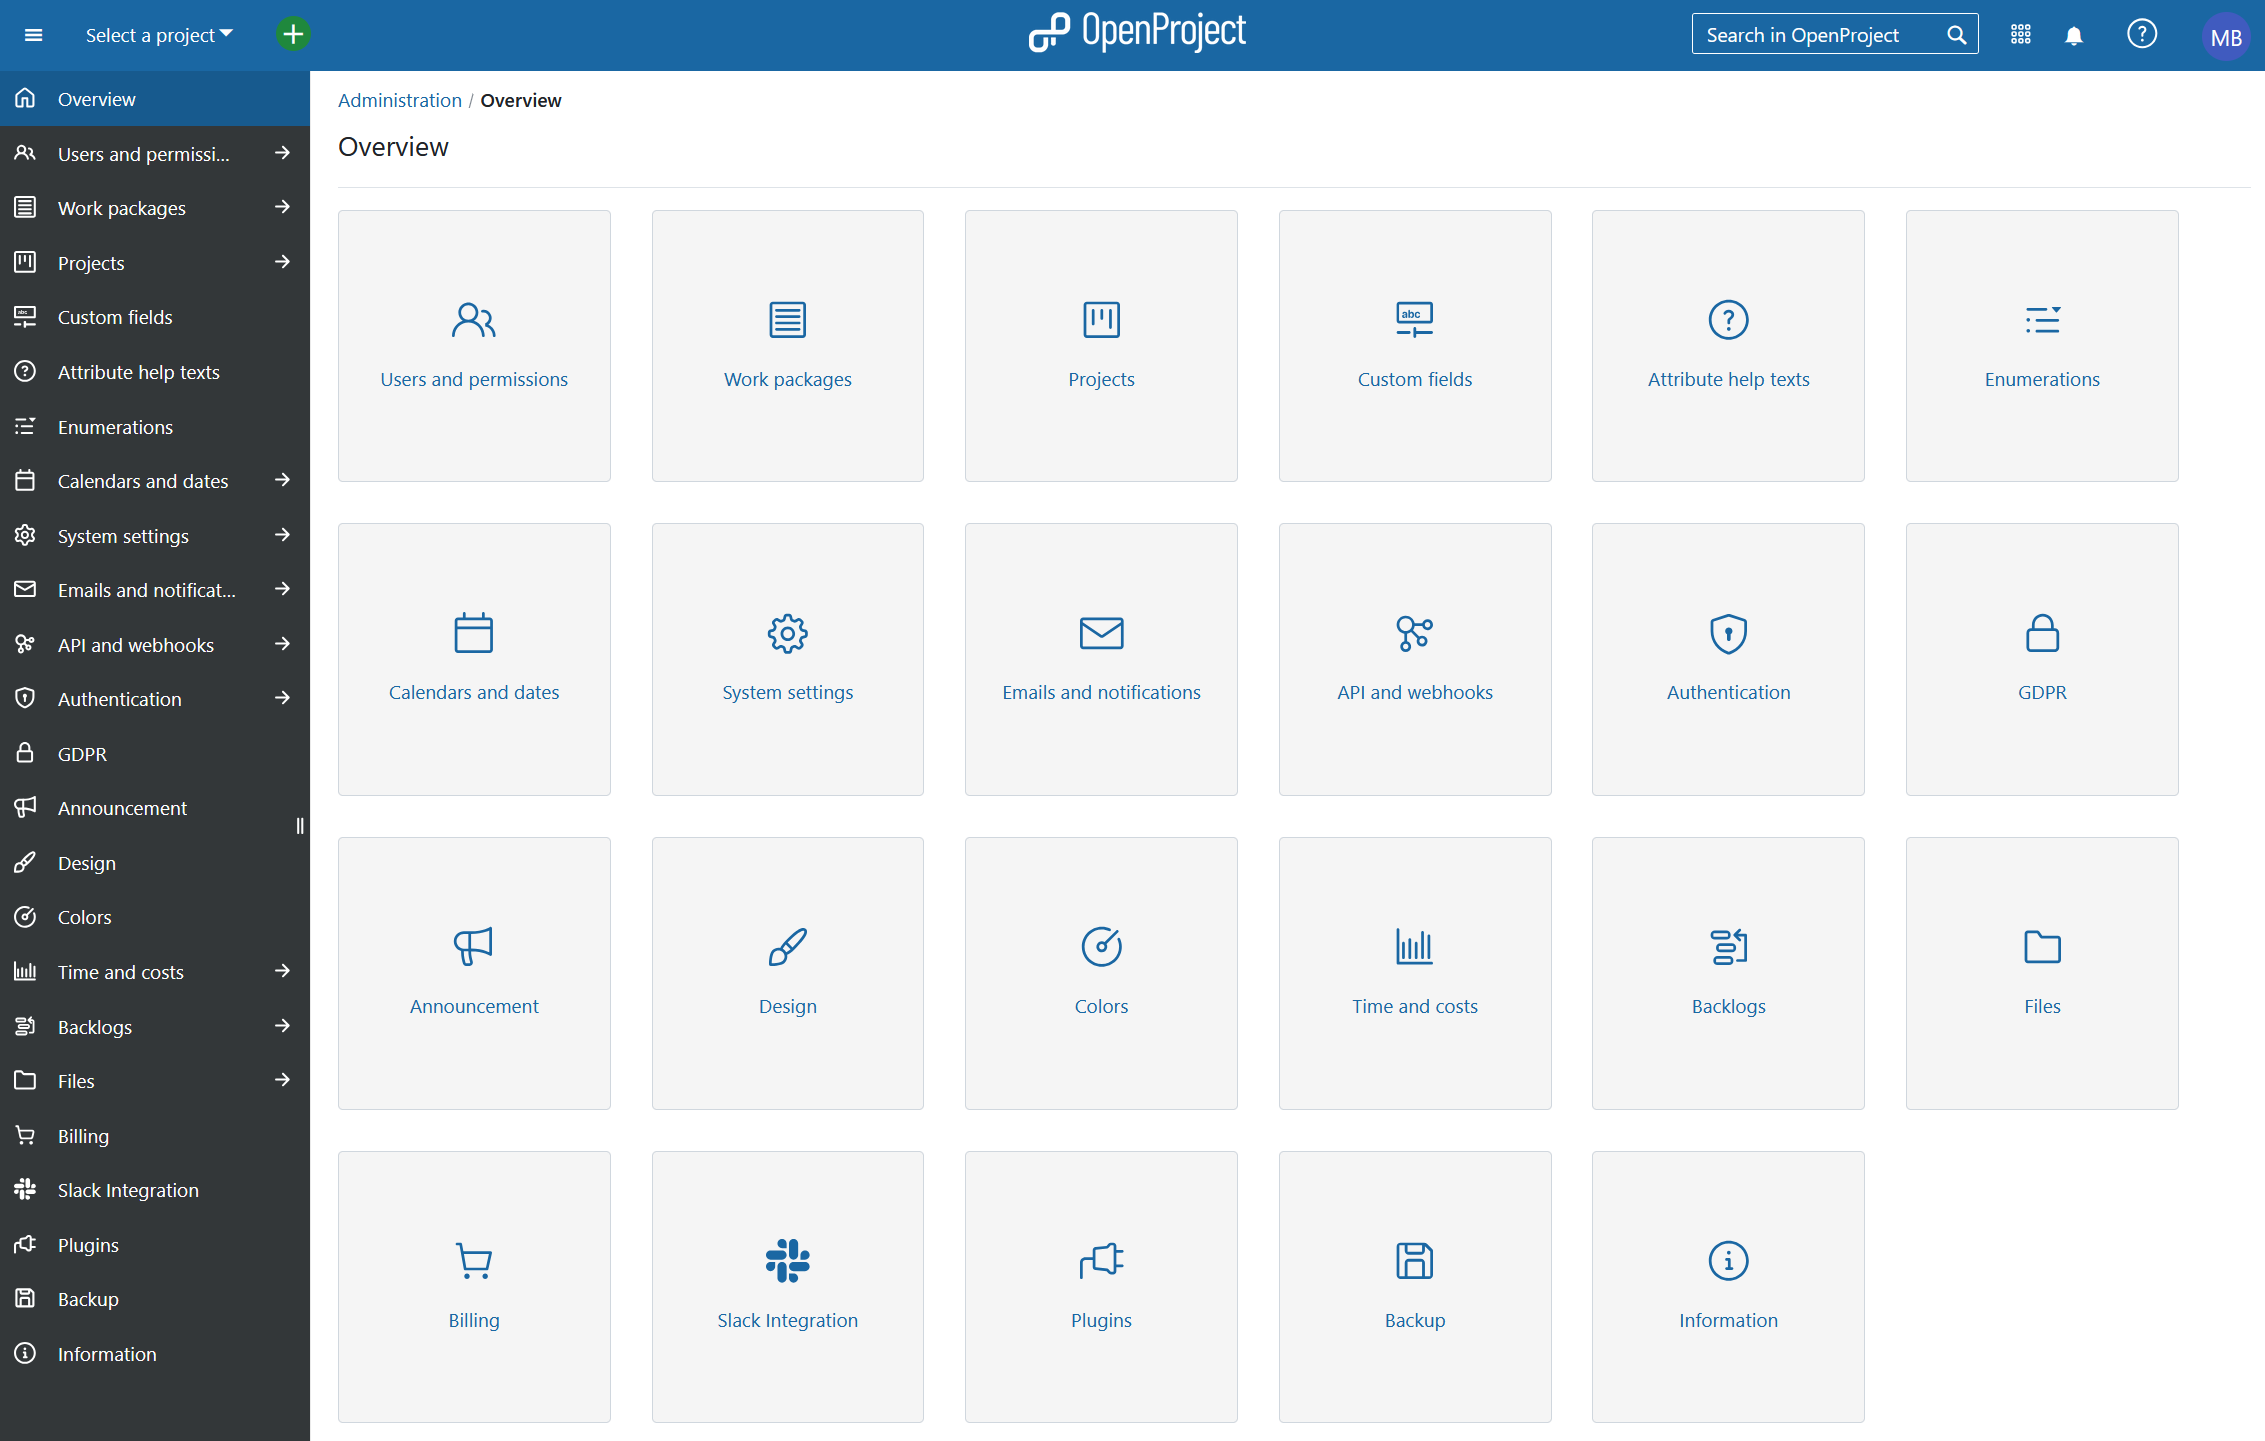
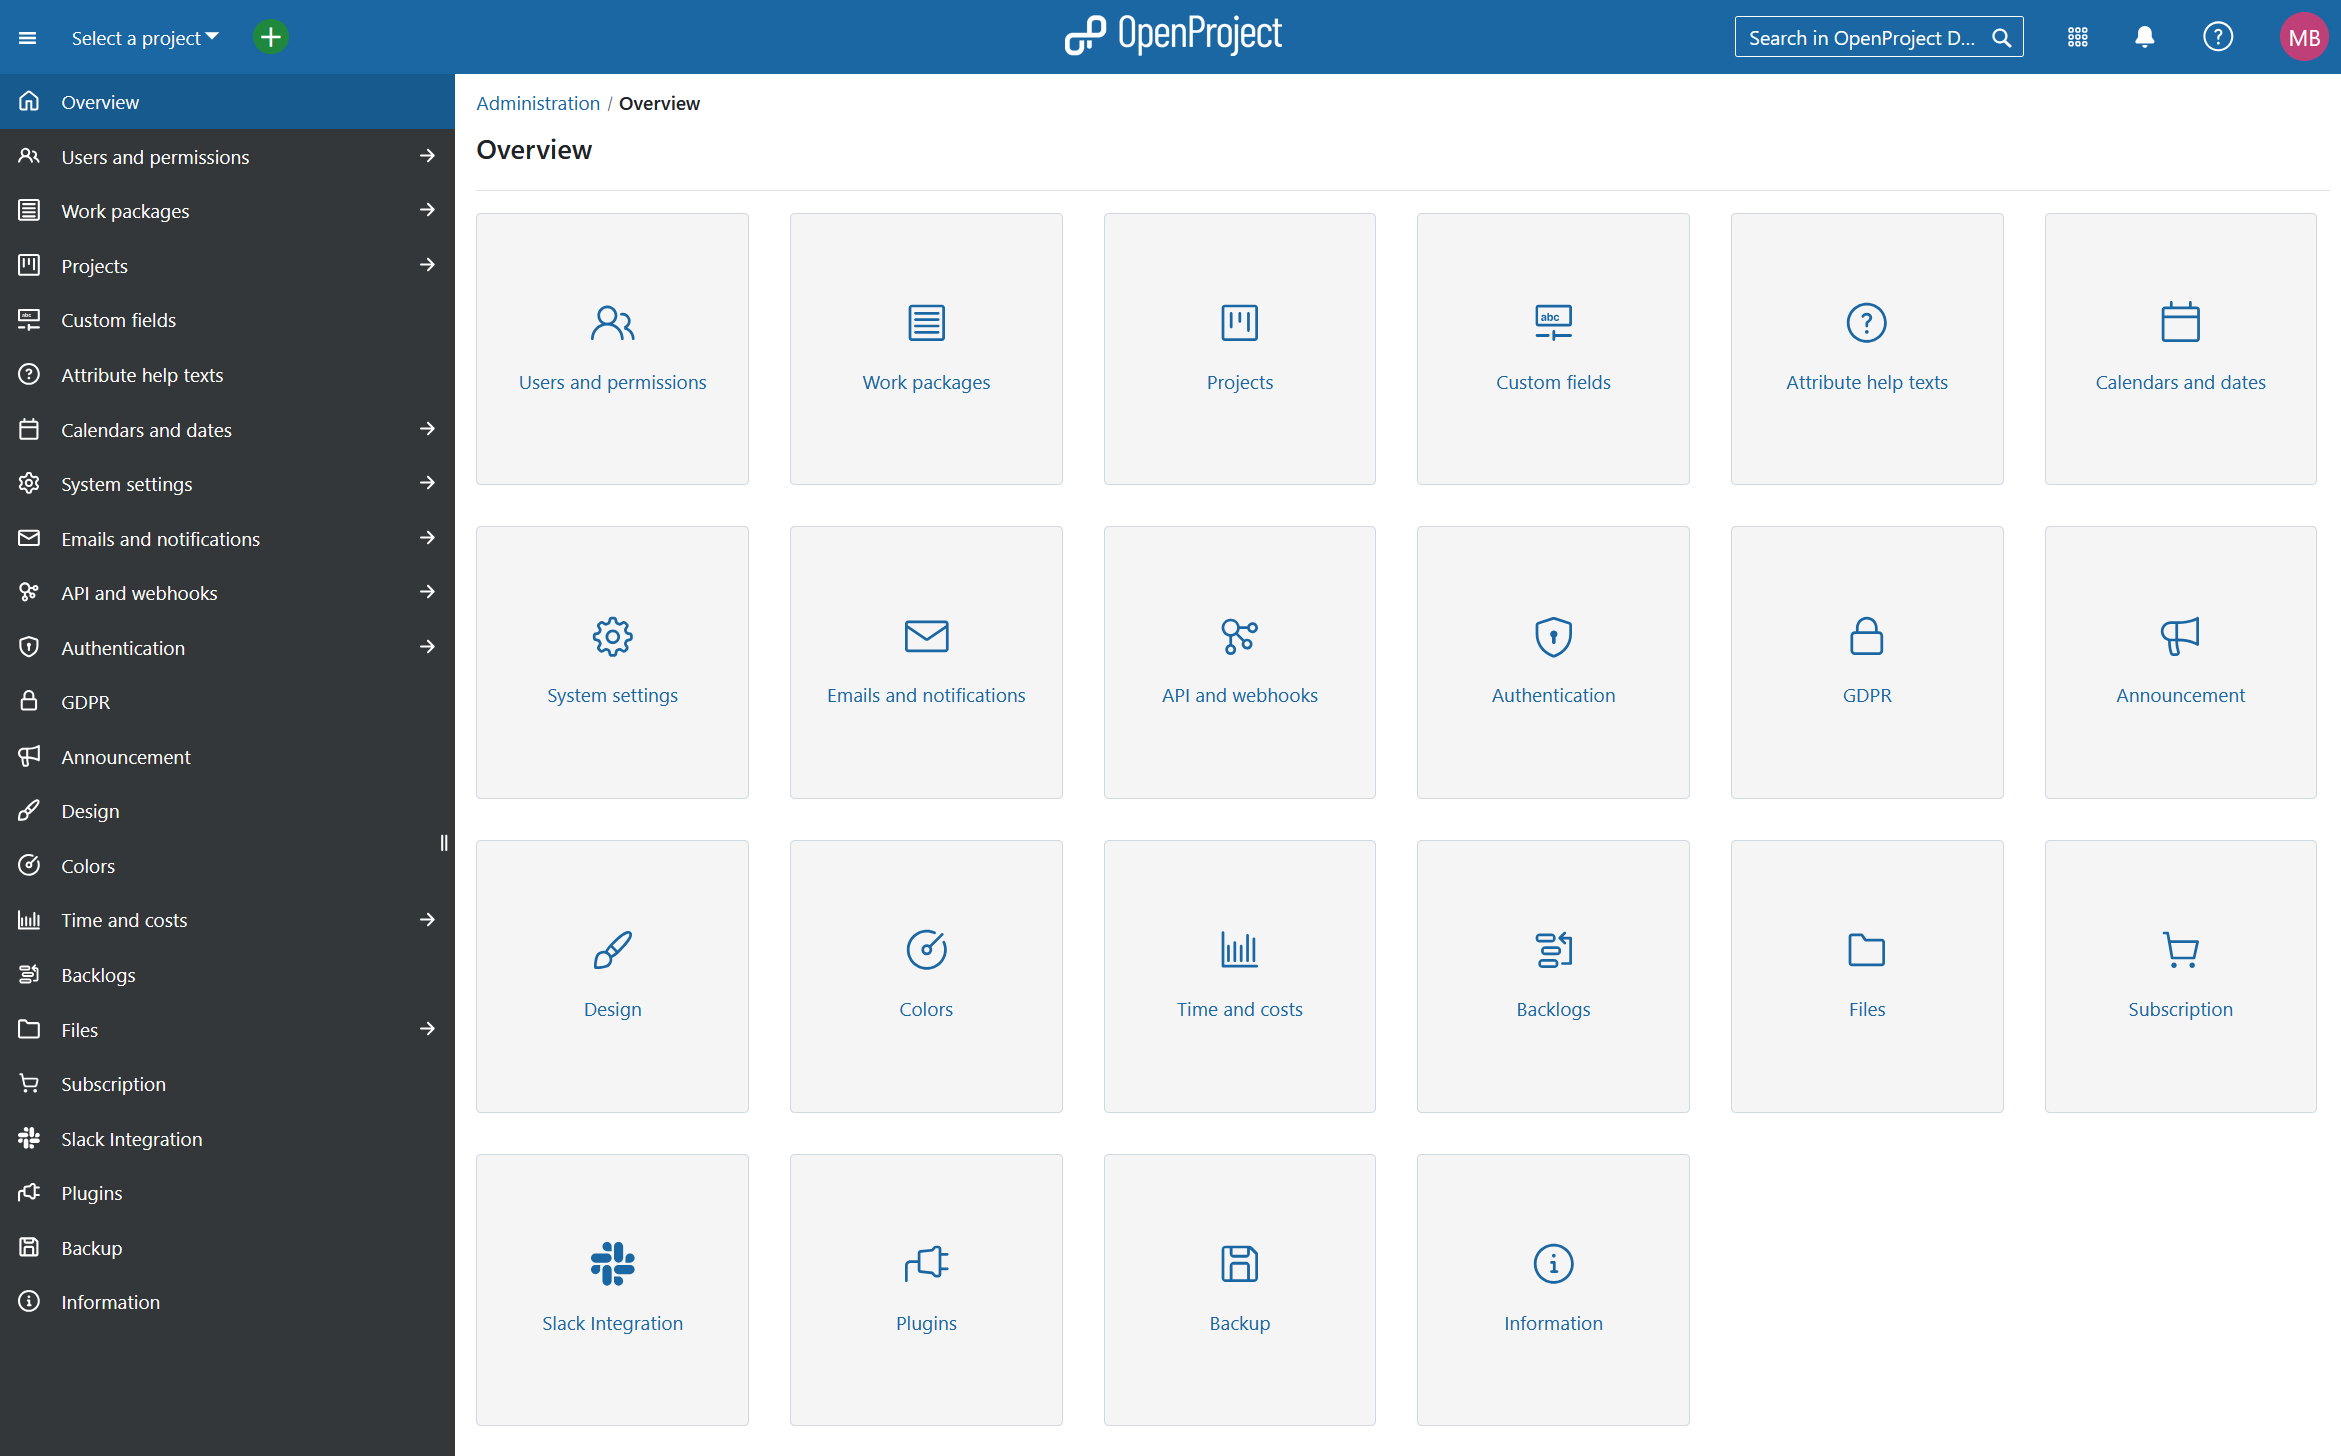
[#62011] Restructure the administration and remove the enumerations page  https://community.openproject.org/work_packages/62011
[#62011] Restructure the administration and remove the enumerations page

https://community.openproject.org/work_packages/62011

diff --git a/docs/system-admin-guide/time-and-costs/README.md b/docs/system-admin-guide/time-and-costs/README.md
@@ -7,19 +7,17 @@ keywords: cost type, currency, time and costs, budget
 ---
 # Time and costs
 
-You can configure costs in OpenProject and create cost types to track unit costs. Also, you can configure the currency you want to use for your cost reports.
+Navigate to *Administration* -> *Time and costs*. Here you can configure costs in OpenProject and create cost types to track unit costs. Also, you can configure the currency you want to use for your cost reports.
 
-Navigate to *Administration* -> *Time and costs*.
+## Default time and cost settings
 
-## Settings
-
-Navigate to *Administration* -> *Time and costs* -> *Settings* to define settings for costs in OpenProject.
+Navigate to *Administration* -> *Time and costs* -> *Defaults* to define settings for costs in OpenProject.
 
 1. Configure the **currency used in the system, e.g. EUR**.
 2. **Specify the format of the currency**, if the number should be before or after the currency, e.g. 10 EUR, or $ 10.
 3. Press the **Apply** button to save your changes.
 
-![Time and costs settings in OpenProject administration](openproject_system_admin_guide_time_costs_settings.png)
+![Time and costs settings in OpenProject administration](openproject_system_admin_guide_time_costs_defaults.png)
 
 ## Create and manage cost types
 
@@ -57,3 +55,35 @@ In the overview list of all cost types you can define the following.
 
 > [!NOTE]
 > With cost types you can also book any kind of units to work packages, e.g. vacation days, leaves, travel days, etc.. Just choose 1 as a unit. This way, you could e.g. track vacation days against a vacation budget and evaluate the days in the [cost reporting](../../user-guide/time-and-costs/reporting/).
+
+## Create and manage time tracking actvities
+
+To get an overview of existing values for time tracking activities, navigate to *Administration -> Time and Costs -> Time tracking activities*. You can adjust the items within the list by using the options behind the **More (three dots)** menu on the right side. You can also re-arrange the order by using the drag-and-drop handle on the left. 
+
+![Overview of existing time tracking activities in OpenProject administration](openproject_system_admin_guide_time_costs_time_tracking_activities_overview.png)
+
+> [!NOTE]
+> To activate the [Activities for time tracking](../../user-guide/projects/project-settings/activities-time-tracking) in a certain project, navigate to *Project settings -> Time tracking activities*.
+
+### Create new time tracking activity
+
+To create a new enumeration value, select the **+ Add** button in the top right corner.
+
+You will then be able to name the value and activate it. Press the **Save** button to save your changes.
+
+![Create new time tracking activity in OpenProject](openproject_system_admin_guide_time_costs_time_tracking_activities_new.png)
+
+### Edit or remove time tracking activity
+
+To **edit** an existing configuration either click on the name of the activity directly or select the **Edit** option from the **More (three dots)** menu on the right end of the row.
+
+![Edit a time tracking activity in OpenProject adminstration](openproject_system_admin_guide_time_costs_time_tracking_activities_edit_icon.png)
+
+
+
+
+
+To remove an enumeration open the **More (three dots)** menu on the right end of the row and click on the **delete icon**.
+
+> [!NOTE]
+> To activate the [Activities for time tracking](../../user-guide/projects/project-settings/activities-time-tracking) in a certain project, navigate to *Project settings -> Time tracking activities*.

diff --git a/docs/system-admin-guide/README.md b/docs/system-admin-guide/README.md
@@ -11,7 +11,7 @@ Welcome to the OpenProject **System Administration guide**.
 
 In order to make changes to settings affecting your entire OpenProject environment, you need to navigate to the OpenProject administration.
 
-If you are an administrator on your OpenProject environment, you can access the administration by clicking on your user Avatar in the upper right corner and selecting -> **Administration** from the dropdown menu.
+If you are an administrator on your OpenProject environment, you can access the administration by clicking on your user Avatar in the upper right corner and selecting **Administration** from the dropdown menu.
 
 Click on one of the categories in order to proceed with the configuration.
 
@@ -25,7 +25,6 @@ Click on one of the categories in order to proceed with the configuration.
 | [Work packages](./manage-work-packages)                      | How to configure work packages, types, status and workflows. |
 | [Custom fields](./custom-fields)                             | Set custom fields for work packages, Spent time, projects, versions, users, groups and more. |
 | [Attribute help texts](./attribute-help-texts)               | Add help texts to explain attributes (including custom fields) in projects and work packages. |
-| [Enumerations](./enumerations/)                              | Set enumerations, e.g. work package priorities, time tracking activities, document categories, and more. |
 | [Calendars and dates](./calendars-and-dates/)                | Configure working days, dates formats and calendar subscriptions. |
 | [System settings](./system-settings/)                        | Configure your system settings, e.g. a welcome text block on the landing page, languages, repositories, and more. |
 | [Emails and notifications](./emails-and-notifications/)      | Manage notifications and emails.                             |
